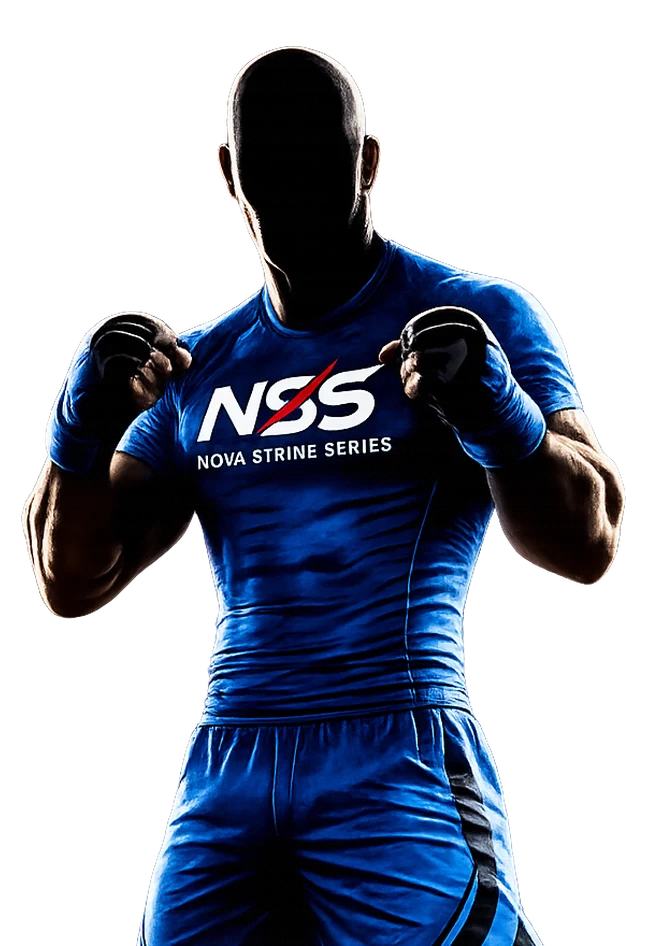
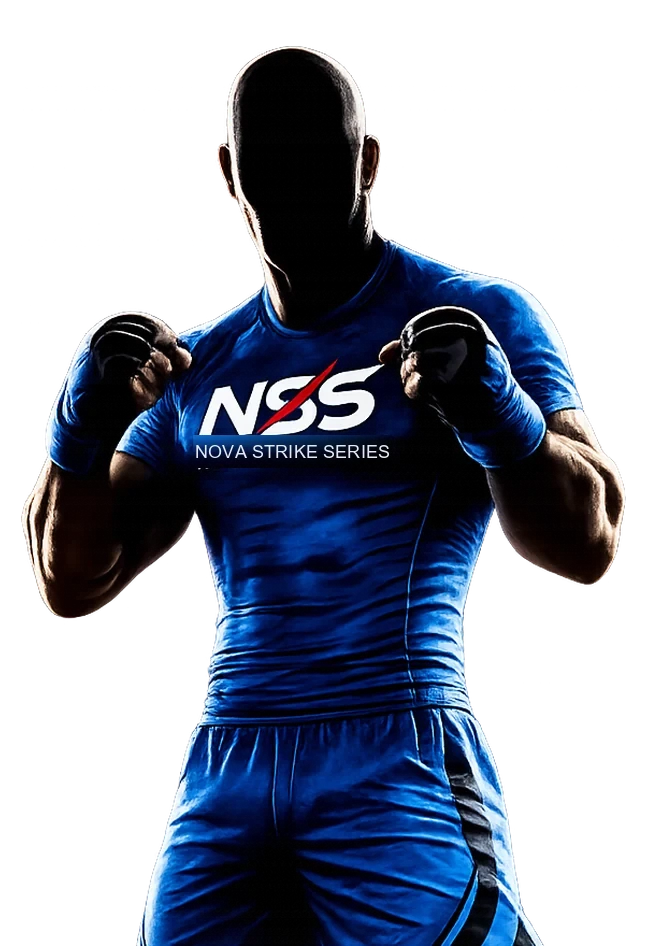
VIP: muestra '$950' con 'y $850' debajo. Jersey azul principal: corrige 'NOVA STRINE' -> 'NOVA STRIKE SERIES'

Changed region(s): [[0.2778, 0.4598, 0.6173, 0.5211]]

diff --git a/index.html b/index.html
@@ -644,9 +644,9 @@ class Component extends DCLogic {
         features: ['Asiento numerado en 1er piso', 'Secciones A · B · C', 'Vista elevada al octágono', 'Acceso preferente', 'Bar disponible']
       },
       {
-        tier: 'VIP', price: '$850', priceSub: 'ó $950 con mesa',
+        tier: 'VIP', price: '$950', priceSub: 'y $850',
         color: '#FF0033', colorBg: 'rgba(255,0,51,0.07)', colorBorder: 'rgba(255,0,51,0.35)',
-        features: ['Zona VIP frente al octágono', 'Asiento VIP · $850', 'Mesa reservada · $950', 'Meet & Greet peleadores', 'Foto con cartel oficial']
+        features: ['Zona VIP frente al octágono', 'Mesa reservada · $950', 'Asiento VIP (sin mesa) · $850', 'Meet & Greet peleadores', 'Foto con cartel oficial']
       }
     ];
 
